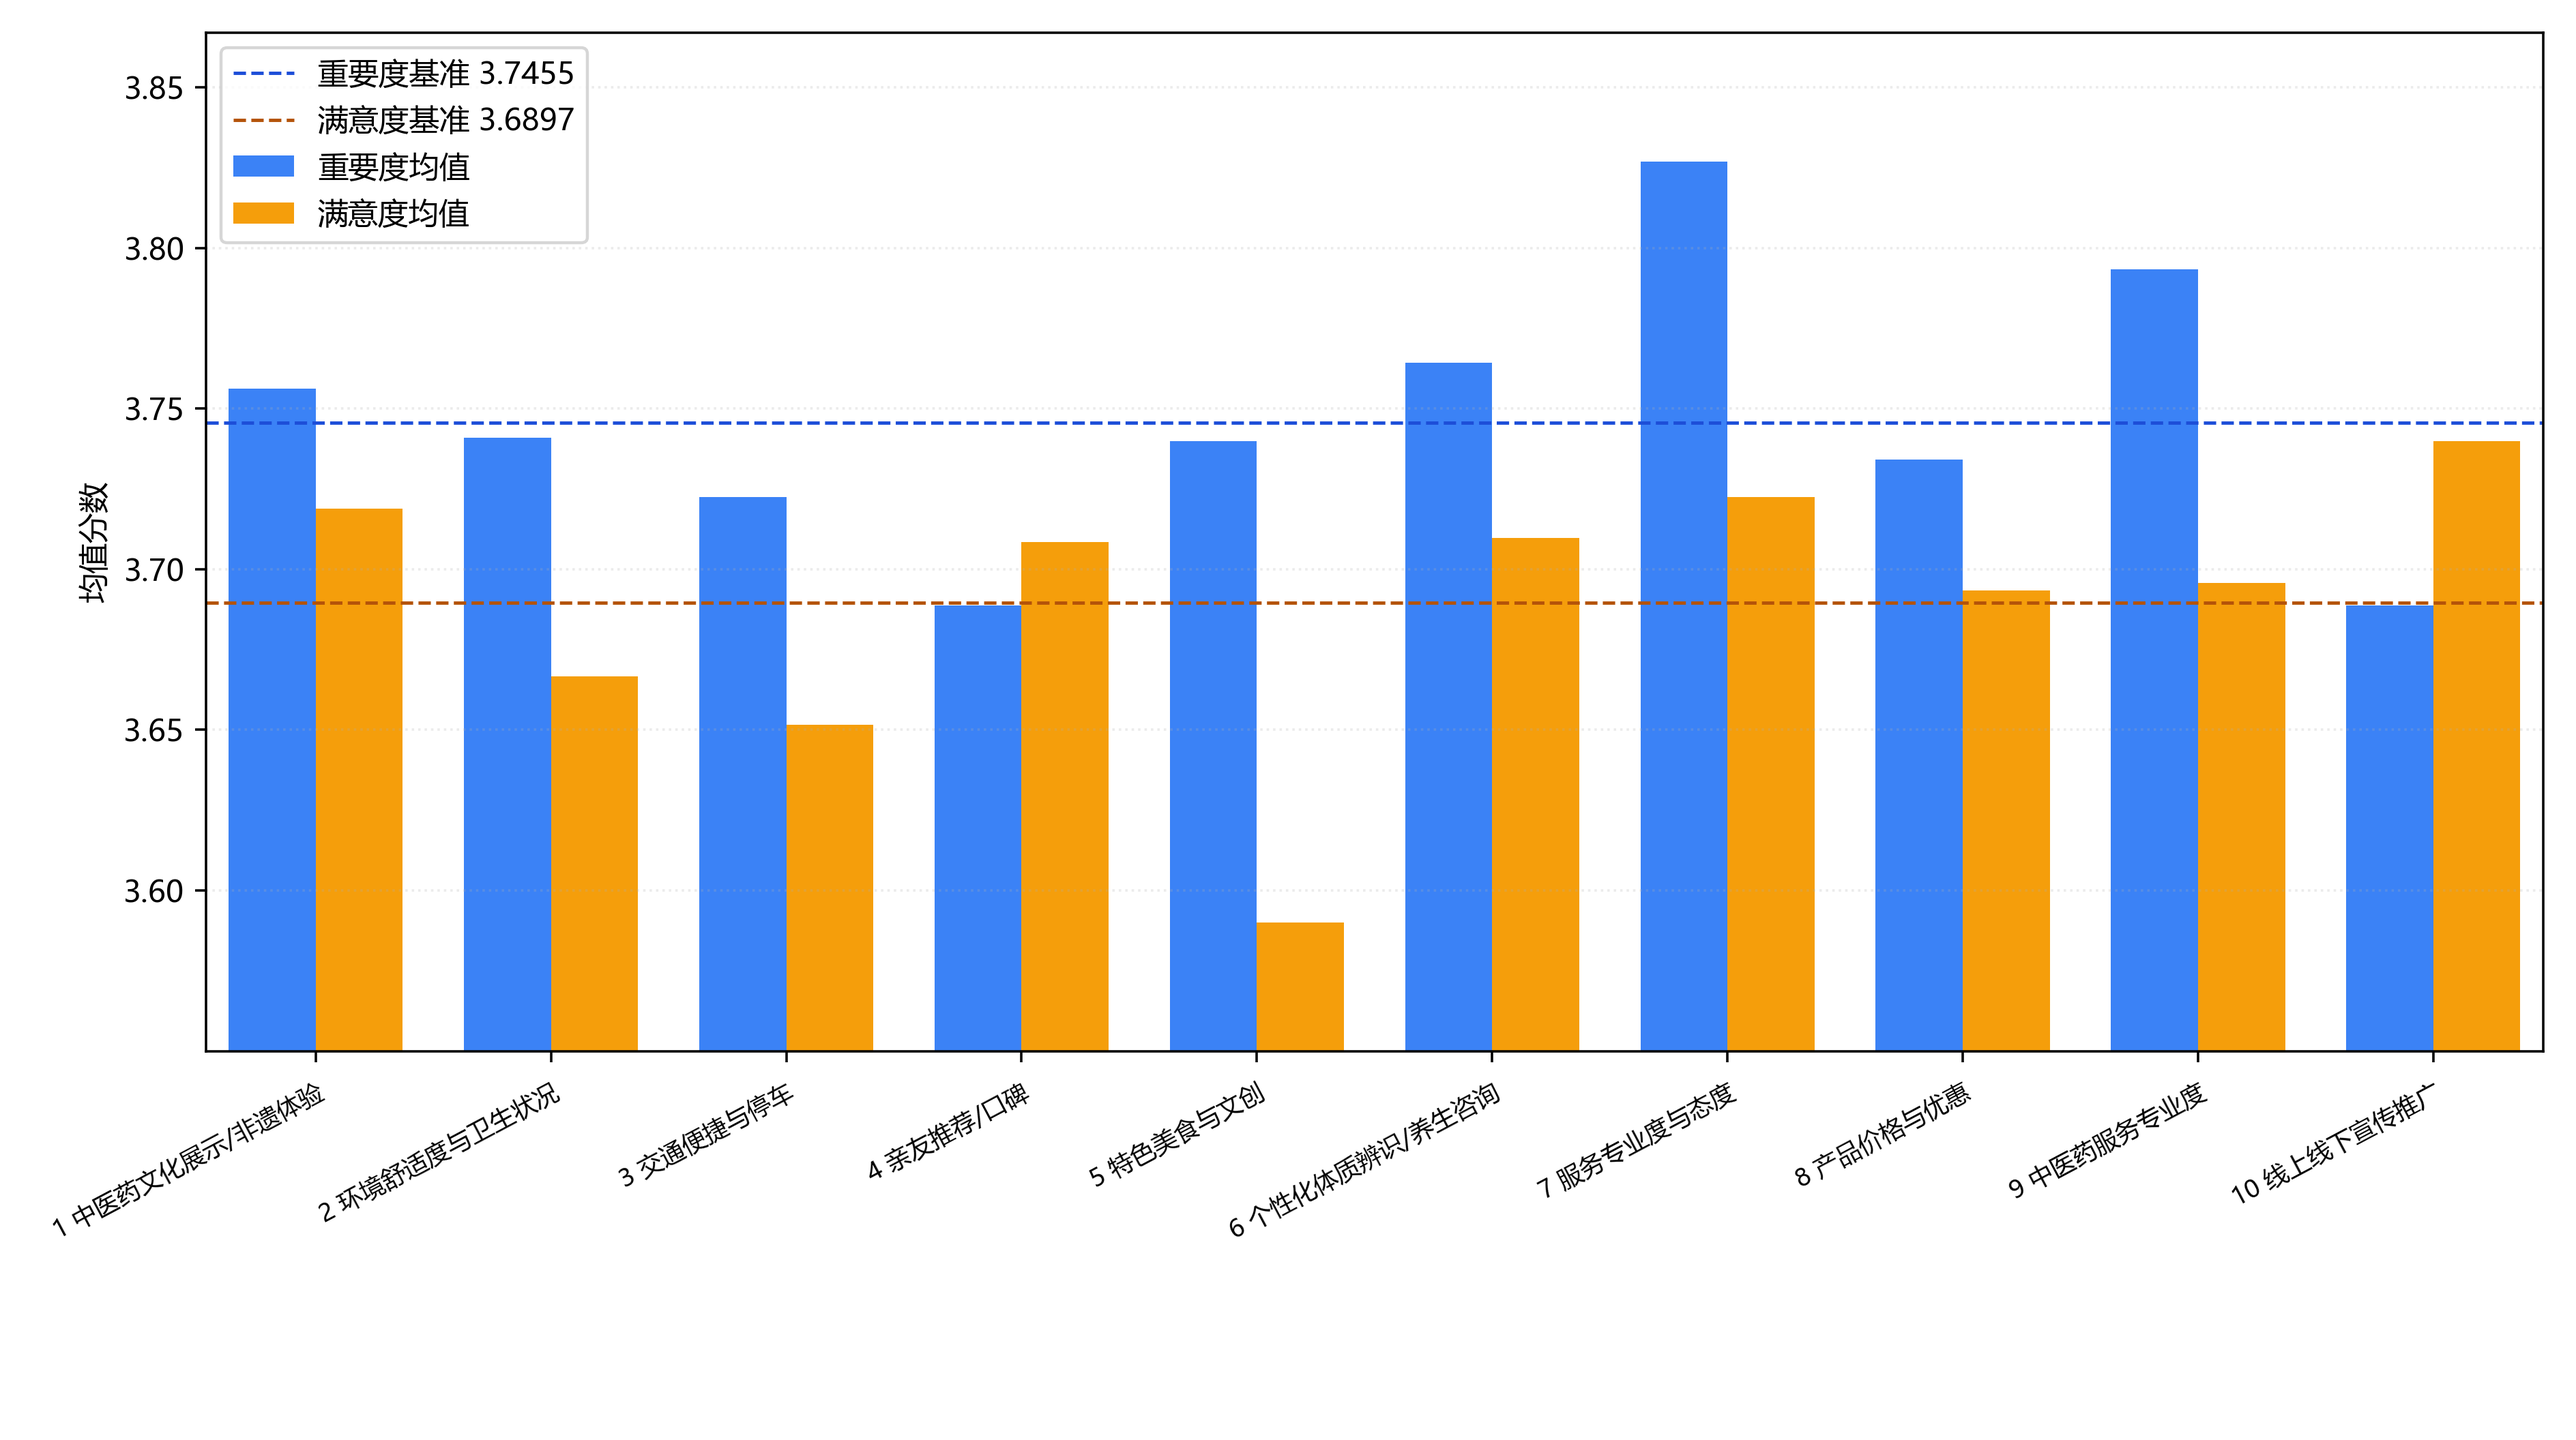
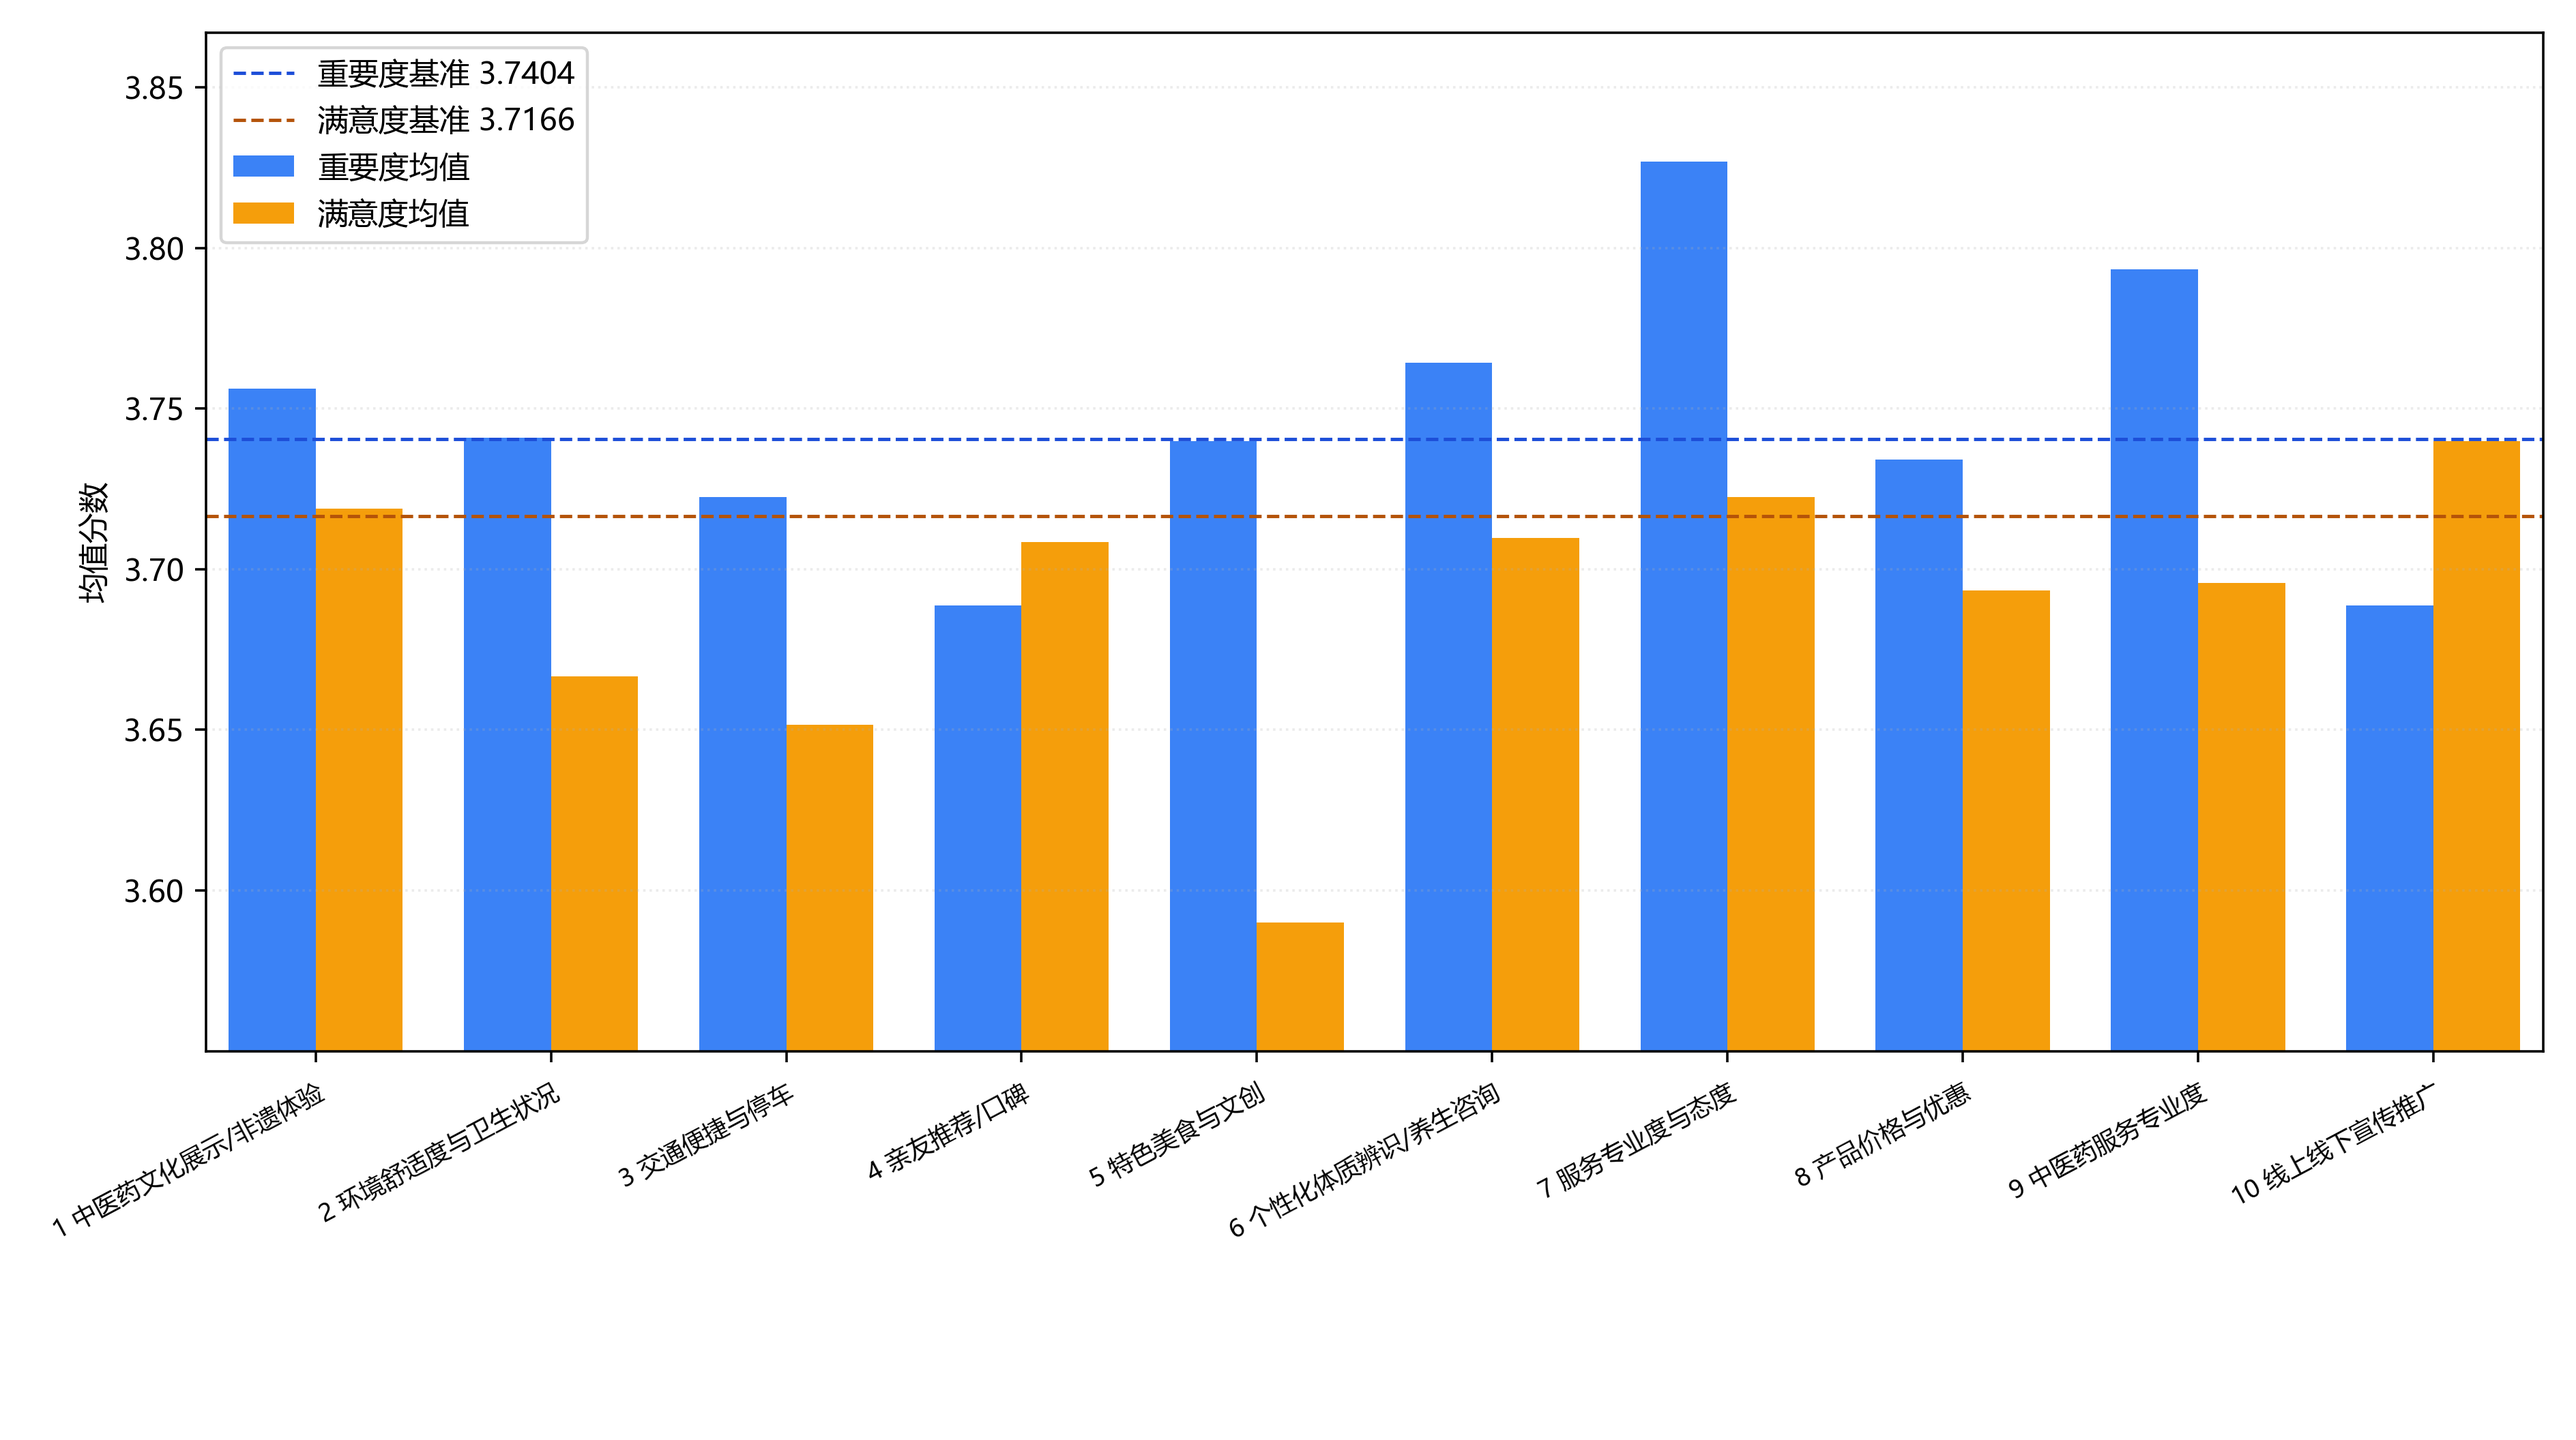
1

Changed region(s): [[0.0938, 0.2812, 0.9688, 0.3125], [0.1875, 0.0625, 0.2188, 0.0938]]

diff --git a/scripts/draw_ipa_scatter_current.py b/scripts/draw_ipa_scatter_current.py
@@ -81,10 +81,33 @@ def load_points(csv_path: Path) -> list[Point]:
     return pts
 
 
-def mean_threshold(points: list[Point]) -> tuple[float, float]:
-    imp = sum(p.importance for p in points) / len(points)
-    perf = sum(p.performance for p in points) / len(points)
-    return imp, perf
+def _median(values: list[float]) -> float:
+    vals = sorted(values)
+    n = len(vals)
+    mid = n // 2
+    if n % 2:
+        return vals[mid]
+    return (vals[mid - 1] + vals[mid]) / 2.0
+
+
+def _quantile_linear(values: list[float], q: float) -> float:
+    vals = sorted(values)
+    n = len(vals)
+    if n == 1:
+        return vals[0]
+    h = (n - 1) * q
+    low = int(h)
+    high = low if h.is_integer() else low + 1
+    if low == high:
+        return vals[low]
+    return vals[low] * (high - h) + vals[high] * (h - low)
+
+
+def target_oriented_threshold(points: list[Point]) -> tuple[float, float]:
+    """提升导向IPA阈值：重要度中位数 + 满意度75分位。"""
+    importance_vals = [p.importance for p in points]
+    performance_vals = [p.performance for p in points]
+    return _median(importance_vals), _quantile_linear(performance_vals, 0.75)
 
 
 def classify(importance: float, performance: float, imp_th: float, perf_th: float) -> str:
@@ -138,7 +161,7 @@ def draw_scatter(points: list[Point], imp_th: float, perf_th: float, out_png: Pa
     ax.text(
         x_min + 0.002,
         perf_th + 0.001,
-        f"满意度均值线 = {perf_th:.4f}",
+        f"满意度75分位线 = {perf_th:.4f}",
         fontsize=9,
         color="#424242",
         va="bottom",
@@ -146,7 +169,7 @@ def draw_scatter(points: list[Point], imp_th: float, perf_th: float, out_png: Pa
     ax.text(
         imp_th + 0.001,
         y_min + 0.001,
-        f"重要度均值线 = {imp_th:.4f}",
+        f"重要度中位数线 = {imp_th:.4f}",
         fontsize=9,
         color="#424242",
         va="bottom",
@@ -207,17 +230,20 @@ def write_audit(
     out_bar_png: Path,
     out_json: Path,
 ) -> None:
+    q4_items = [p.item_no for p in points if classify(p.importance, p.performance, imp_th, perf_th) == "Q4_改进区"]
     payload = {
         "generated_at": datetime.now().isoformat(timespec="seconds"),
         "source_csv": "data/data_analysis/_source_analysis/tables/IPA结果表.csv",
+        "threshold_method": "提升导向阈值（重要度中位数 + 满意度75分位）",
         "outputs": {
             "scatter_png": str(out_scatter_png).replace("/", "\\"),
             "bar_png": str(out_bar_png).replace("/", "\\"),
         },
         "thresholds": {
-            "importance_mean": imp_th,
-            "performance_mean": perf_th,
+            "importance_median": imp_th,
+            "performance_q75": perf_th,
         },
+        "q4_item_nos": q4_items,
         "points": [
             {
                 "item_no": p.item_no,
@@ -241,7 +267,7 @@ def main() -> None:
     out_json = out_dir / "IPA_当前数据图片生成_audit.json"
 
     points = load_points(src)
-    imp_th, perf_th = mean_threshold(points)
+    imp_th, perf_th = target_oriented_threshold(points)
     draw_scatter(points, imp_th, perf_th, out_png=out_scatter_png, dpi=320)
     draw_bar(points, imp_th, perf_th, out_png=out_bar_png, dpi=320)
     write_audit(

diff --git a/scripts/draw_ipa_required_figures.py b/scripts/draw_ipa_required_figures.py
@@ -81,9 +81,27 @@ def load_points(csv_path: Path) -> list[Point]:
     return points
 
 
-def mean_threshold(points: list[Point]) -> tuple[float, float]:
-    imp = sum(p.importance for p in points) / len(points)
-    sat = sum(p.satisfaction for p in points) / len(points)
+def target_oriented_threshold(points: list[Point]) -> tuple[float, float]:
+    imp_vals = sorted(p.importance for p in points)
+    sat_vals = sorted(p.satisfaction for p in points)
+    n_imp = len(imp_vals)
+    n_sat = len(sat_vals)
+
+    if n_imp % 2:
+        imp = imp_vals[n_imp // 2]
+    else:
+        imp = (imp_vals[n_imp // 2 - 1] + imp_vals[n_imp // 2]) / 2.0
+
+    if n_sat == 1:
+        sat = sat_vals[0]
+    else:
+        h = (n_sat - 1) * 0.75
+        low = int(h)
+        high = low if h.is_integer() else low + 1
+        if low == high:
+            sat = sat_vals[low]
+        else:
+            sat = sat_vals[low] * (high - h) + sat_vals[high] * (h - low)
     return imp, sat
 
 
@@ -138,7 +156,7 @@ def draw_scatter(points: list[Point], imp_th: float, sat_th: float, output: Path
     ax.text(
         x_min + 0.002,
         sat_th + 0.001,
-        f"满意度均值线 = {sat_th:.4f}",
+        f"满意度75分位线 = {sat_th:.4f}",
         fontsize=8.8,
         color="#424242",
         va="bottom",
@@ -146,7 +164,7 @@ def draw_scatter(points: list[Point], imp_th: float, sat_th: float, output: Path
     ax.text(
         imp_th + 0.001,
         y_min + 0.001,
-        f"重要度均值线 = {imp_th:.4f}",
+        f"重要度中位数线 = {imp_th:.4f}",
         fontsize=8.8,
         color="#424242",
         va="bottom",
@@ -273,9 +291,10 @@ def write_audit(
         "generated_at": datetime.now().isoformat(timespec="seconds"),
         "source_csv": to_win_path(source_csv),
         "output_dir": to_win_path(audit_path.parent),
+        "threshold_method": "提升导向阈值（重要度中位数 + 满意度75分位）",
         "thresholds": {
-            "importance_mean_line": imp_th,
-            "satisfaction_mean_line": sat_th,
+            "importance_median_line": imp_th,
+            "satisfaction_q75_line": sat_th,
         },
         "point_count": len(points),
         "points": [
@@ -305,7 +324,7 @@ def main() -> None:
     out_audit = out_dir / "IPA_图片生成_audit.json"
 
     points = load_points(source_csv)
-    imp_th, sat_th = mean_threshold(points)
+    imp_th, sat_th = target_oriented_threshold(points)
 
     draw_scatter(points, imp_th, sat_th, out_scatter, dpi=320)
     draw_bar(points, imp_th, sat_th, out_bar, dpi=320)

diff --git a/new/ipa/IPA_提升导向说明文案.md b/new/ipa/IPA_提升导向说明文案.md
@@ -1,0 +1,14 @@
+# IPA划分口径调整说明（可直接引用）
+
+为避免在“总体满意度偏高”场景下出现改进区（Q4）空白，本次IPA从“均值阈值”调整为“提升导向阈值”：
+
+- 重要度阈值：中位数 = `3.7404`
+- 满意度阈值：75分位数 = `3.7166`
+
+按该标准重划后，Q4（高重要-低表现）识别出3项优先改进内容：
+
+1. `②` 环境舒适度与卫生状况  
+2. `⑥` 个性化体质辨识/养生咨询  
+3. `⑨` 中医药服务专业度
+
+这一定义更符合“高标准改进”目标：不是仅以样本平均水平为参照，而是以更高满意基准筛选仍存在短板的关键服务项，用于指导资源优先投入与阶段性整改KPI制定。
